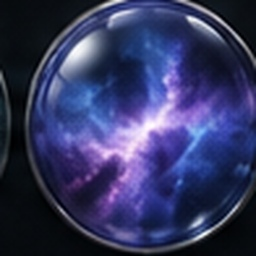
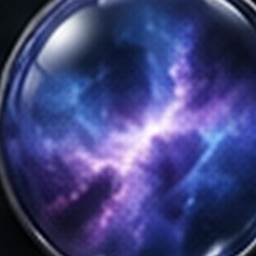
Add five living space scenes and refine wet diffusion [ui-preview] [visual-review]

diff --git a/tools/motion-preview/index.html b/tools/motion-preview/index.html
@@ -1,0 +1,33 @@
+<!doctype html>
+<html lang="fa" dir="rtl"><meta charset="utf-8"><meta name="viewport" content="width=device-width,initial-scale=1"><title>Void Chamber · Motion Lab</title>
+<style>*{box-sizing:border-box}body{margin:0;background:#080b12;color:#e0e7ef;font:15px system-ui}header{padding:22px 4%;border-bottom:1px solid #293440}h1{font-size:23px;margin:0 0 8px}p{color:#9baabd;line-height:1.9;margin:6px 0}main{max-width:1400px;margin:auto;padding:24px;display:grid;grid-template-columns:1fr 290px;gap:20px}.stage{border:1px solid #384450;border-radius:16px;overflow:hidden;background:#03050a}canvas{width:100%;display:block;aspect-ratio:1100/600}aside{grid-column:2;grid-row:1 / span 2;display:flex;flex-direction:column;gap:7px}button,.file{background:#111925;color:#c6d2df;border:1px solid #303d50;border-radius:9px;padding:11px;cursor:pointer;text-align:right;font:inherit}button.active{border-color:#d88aee;background:#30203c;color:white}small{display:block;font-size:11px;color:#97a9bd;direction:ltr;text-align:right;margin-top:3px}.controls{display:flex;align-items:center;gap:12px;flex-wrap:wrap;padding:14px}input[type=range]{width:110px;accent-color:#b2a0ff}.info{padding:16px 20px;min-height:100px}.badge{color:#85d9e0}audio{max-width:100%;width:260px;height:34px}label{font-size:13px;color:#c3ccd9}input[type=file]{display:none}@media(max-width:850px){main{display:flex;flex-direction:column;padding:10px}aside{display:grid;grid-template-columns:1fr 1fr}.controls{gap:8px}}</style>
+<header><h1>VOID CHAMBER / آزمایشگاه حرکت</h1><p>۱۰ شبیهسازی زنده برای انتخاب جهت طراحی — این صفحه پلاگین یا پیشنمایش DSP جدید نیست.</p></header>
+<main><section><div class="stage"><canvas id="view" width="1100" height="600"></canvas><div class="controls"><button id="pause">توقف حرکت</button><label>شدت <input id="strength" type="range" min="0" max="100" value="65"></label><label>سرعت <input id="speed" type="range" min="10" max="150" value="65"></label><button id="hit">ضربهٔ سیگنال</button><button id="auto">مقایسهٔ خودکار: خاموش</button></div></div><div class="info"><strong id="title"></strong><p id="description"></p><span class="badge" id="signal">سیگنال نمایشی مشترک برای مقایسهٔ هر ۱۰ حالت</span></div><div class="controls"><label class="file">انتخاب فایل صوتی خودت<input type="file" id="file" accept="audio/*"></label><audio id="audio" controls></audio><button id="demo">برگشت به سیگنال نمایشی</button></div><p>فایل صوتی فقط داخل مرورگر پردازش میشود و جایی آپلود نمیشود. در حالت فایل، حرکت از انرژی بم، میانی و زیر صدا تأثیر میگیرد. دنبالهٔ تصویری شبیهسازی شده است؛ تحلیل خروجی ریورب واقعی نیست.</p></section><aside id="choices"></aside></main>
+<script>
+const modes=[['سحابیِ تنفسکننده','Nebula Breathing','بافت داخلی با تنفس پیوسته باز و جمع میشود؛ پوسته ثابت و حرکت نرم است.'],['جوهر در بیوزنی','Zero-Gravity Ink','ابرهای جوهری با حرکت گردابی؛ بم جریانهای بزرگ و زیر جزئیات کوچک را میسازد.'],['طوفان مداری','Orbital Storm','رشتههای نور در مدارهای مایل میچرخند و با انرژی صدا شتاب میگیرند.'],['آینهٔ مایع','Liquid Mirror','موجهای بیضوی روی زمین پخش میشوند و بازتاب را به لرزش درمیآورند.'],['شفقِ محبوس','Captured Aurora','پردههای شفق مواج در کره حرکت میکنند؛ لبهها با فرکانسهای زیر روشن میشوند.'],['غبارِ خاطره','Echo Dust','ذرات نور با ورود سیگنال بیدار میشوند و ردهای کوتاهشان در دنباله محو میشود.'],['میدان گرانش','Gravity Well','گرداب نور به سوی هسته کشیده میشود؛ حلقههای انکسار با سیگنال باز میشوند.'],['گفتوگوی سه کره','Three-Body Resonance','کرههای جانبی و مرکزی با مسیرهای نور به یکدیگر پاسخ میدهند. در فایل صوتی، طرفین به کانال چپ و راست واکنش دارند.'],['شیشه و پلاسما','Glass & Plasma','رشتههای پلاسما داخل پوستهٔ ثابت جاریاند؛ لبهٔ کره با حملههای صوتی روشن میشود.'],['اتاقی که بیدار میشود','Awakening Chamber','کرهها، ستونها و بازتاب زمین با هم به انرژی صدا پاسخ میدهند؛ حرکتی محیطی و هماهنگ.']];
+const $=s=>document.getElementById(s),c=$('view'),g=c.getContext('2d'),img=new Image();img.src='scene.jpg';let mode=0,paused=false,t=0,last=0,impulse=0,tail=0,ctx,analyser,bins,source,leftAnalyser,rightAnalyser,lb,rb,objectURL,usingFile=false,automatic=false,autoTime=0;
+function select(i){mode=i;document.querySelectorAll('aside button').forEach((b,j)=>b.classList.toggle('active',i===j));$('title').textContent=`${i+1}. ${modes[i][0]}`;$('description').textContent=modes[i][2];}
+modes.forEach((m,i)=>{let b=document.createElement('button');b.innerHTML=`${i+1}. ${m[0]}<small>${m[1]}</small>`;b.onclick=()=>{select(i);autoTime=0};$('choices').append(b)});select(0);
+$('pause').onclick=()=>{paused=!paused;$('pause').textContent=paused?'ادامهٔ حرکت':'توقف حرکت'};$('hit').onclick=()=>impulse=1;$('auto').onclick=()=>{automatic=!automatic;autoTime=0;$('auto').textContent='مقایسهٔ خودکار: '+(automatic?'هر ۸ ثانیه':'خاموش')};
+function setup(){if(ctx)return;ctx=new AudioContext();source=ctx.createMediaElementSource($('audio'));analyser=ctx.createAnalyser();analyser.fftSize=1024;bins=new Uint8Array(analyser.frequencyBinCount);source.connect(analyser);analyser.connect(ctx.destination);let splitter=ctx.createChannelSplitter(2);source.connect(splitter);leftAnalyser=ctx.createAnalyser();rightAnalyser=ctx.createAnalyser();leftAnalyser.fftSize=rightAnalyser.fftSize=256;splitter.connect(leftAnalyser,0);splitter.connect(rightAnalyser,1);lb=new Uint8Array(128);rb=new Uint8Array(128)}
+$('file').onchange=async e=>{let f=e.target.files[0];if(!f)return;try{setup();await ctx.resume();$('audio').pause();if(objectURL)URL.revokeObjectURL(objectURL);objectURL=URL.createObjectURL(f);$('audio').src=objectURL;usingFile=true;await $('audio').play();$('signal').textContent='واکنش به فایل صوتی: '+f.name}catch(err){$('signal').textContent='پخش ممکن نشد؛ از کنترل پخش استفاده کن. '+err.message}};
+$('audio').onplay=()=>{if(ctx)ctx.resume()};$('demo').onclick=()=>{usingFile=false;$('audio').pause();$('signal').textContent='سیگنال نمایشی مشترک برای مقایسهٔ هر ۱۰ حالت'};
+function avg(a,start,end){let s=0;for(let i=start;i<end;i++)s+=a[i];return s/((end-start)*255)}
+function path(points,color,width=1){g.beginPath();points.forEach((p,i)=>i?g.lineTo(...p):g.moveTo(...p));g.strokeStyle=color;g.lineWidth=width;g.stroke()}
+function ellipse(x,y,rx,ry,color,w=1,rot=0){g.beginPath();g.ellipse(x,y,Math.max(.1,rx),Math.max(.1,ry),rot,0,Math.PI*2);g.strokeStyle=color;g.lineWidth=w;g.stroke()}
+function glow(x,y,r,color,a){g.save();g.globalAlpha=Math.min(1,Math.max(0,a));let q=g.createRadialGradient(x,y,0,x,y,r);q.addColorStop(0,color);q.addColorStop(1,'transparent');g.fillStyle=q;g.fillRect(x-r,y-r,r*2,r*2);g.restore()}
+function frame(ms){requestAnimationFrame(frame);let dt=Math.min((ms-last)/1000,.05);last=ms;if(paused)return;t+=dt*Number($('speed').value)/65;if(automatic){autoTime+=dt;if(autoTime>8){select((mode+1)%10);autoTime=0}}impulse*=Math.exp(-dt*4);let lo,mid,hi,L,R;if(usingFile&&analyser){analyser.getByteFrequencyData(bins);lo=avg(bins,1,10);mid=avg(bins,10,80);hi=avg(bins,80,240);leftAnalyser.getByteFrequencyData(lb);rightAnalyser.getByteFrequencyData(rb);L=avg(lb,0,90);R=avg(rb,0,90)}else{let beat=Math.pow(Math.max(0,Math.sin(t*3.2)),12);lo=.12+beat*.7;mid=.19+.19*Math.sin(t*1.1)**2;hi=.08+.35*Math.pow(Math.max(0,Math.sin(t*5.3)),8);L=.3+.25*Math.sin(t*.9);R=.3+.25*Math.cos(t*.8)}let input=Math.min(1,(lo*.5+mid*.35+hi*.15)*1.7+impulse);tail=Math.max(input,tail*Math.exp(-dt*.85));let a=Number($('strength').value)/100,e=tail*a;
+g.clearRect(0,0,1100,600);if(img.complete&&img.naturalWidth)g.drawImage(img,0,0);g.save();g.globalCompositeOperation='screen';
+if([0,1,2,5,6,8,9].includes(mode)){g.save();g.beginPath();g.arc(550,207,129,0,Math.PI*2);g.clip();if(mode===0){let s=1+.055*Math.sin(t*1.4)*( .2+e);g.globalAlpha=.3+e*.4;g.translate(550,207);g.scale(s,s);g.drawImage(img,420,77,260,260,-130,-130,260,260);g.globalAlpha=1;glow(548,220,120,'#8853d9',e*.3)}
+if(mode===1){for(let k=0;k<9;k++){let x=550+Math.sin(t*.22+k*2.4)*(55+lo*22),y=205+Math.cos(t*.3+k*1.4)*80;glow(x,y,30+22*Math.sin(t*.5+k)**2,k%2?'#9848d5':'#397696',(.18+e*.5));}for(let k=0;k<12;k++){let pts=[];for(let j=0;j<80;j++){let x=425+j*3.2;pts.push([x,205+60*Math.sin(j*.035+t*.25+k*.35)+20*Math.sin(j*.1-t*.4+k)])}path(pts,`rgba(211,118,249,${.04+e*.1})`,2)}}
+if(mode===2){for(let k=0;k<9;k++)ellipse(550,207,70+k*7,18+k*3,`rgba(${k%2?'116,217,244':'220,132,250'},${.13+e*.4})`,1.2,t*.25+k*.35);for(let k=0;k<14;k++){let q=t*(.5+lo)+k*2.4;glow(550+112*Math.cos(q),207+65*Math.sin(q),5,'#f4caff',e*.9)}}
+if(mode===5){for(let k=0;k<170;k++){let q=k*2.39996+t*(.04+(k%7)*.009),r=120*Math.sqrt((k*.618033%1));let x=550+Math.cos(q)*r,y=207+Math.sin(q)*r;let v=(.5+.5*Math.sin(t*1.4+k))*(.15+e);path([[x-Math.sin(q)*4,y+Math.cos(q)*4],[x,y]],`rgba(186,215,255,${v})`,k%4===0?2:1);if(k%9===0)glow(x,y,6,'#cd8bff',v*.6)}}
+if(mode===6){for(let k=0;k<11;k++){let pts=[];for(let j=0;j<100;j++){let r=8+j*1.22,q=k*Math.PI*2/11+j*.045+t*.3;pts.push([550+Math.cos(q)*r,207+Math.sin(q)*r*.85])}path(pts,`rgba(176,119,244,${.1+e*.3})`,1.4)}g.globalCompositeOperation='source-over';let z=g.createRadialGradient(550,207,4,550,207,34+lo*15);z.addColorStop(0,'#02030b');z.addColorStop(1,'transparent');g.fillStyle=z;g.fillRect(495,152,110,110);g.globalCompositeOperation='screen';ellipse(550,207,34+e*15,27+e*12,'#ad8bdc',1)}
+if(mode===8||mode===9){for(let k=0;k<7;k++){let pts=[];for(let j=0;j<100;j++){let x=423+j*2.57;let taper=Math.sin(j/99*Math.PI);let y=212+(k-3)*10+Math.sin(j*.047+t*.5+k*.53)*45*taper+Math.sin(j*.13-t*.8+k)*8*(.4+hi);pts.push([x,y])}path(pts,`rgba(197,109,245,${.12+e*.35})`,5);path(pts,`rgba(244,187,255,${.2+e*.6})`,.8)}glow(593,181,64,'#8b42d8',e*.35)}g.restore()}
+if(mode===4){g.save();g.beginPath();g.arc(550,207,127,0,Math.PI*2);g.clip();for(let k=0;k<40;k++){let pts=[];for(let j=0;j<80;j++){let x=428+j*3.1,y=180+Math.sin(j*.035+t*.3+k*.035)*65+(k-20)*2.4+Math.sin(j*.085-t*.6)*10*(.3+lo);pts.push([x,y])}path(pts,`rgba(${k%3?'113,221,224':'225,144,255'},${(.04+e*.14)*(1-Math.abs(k-20)/25)})`,2)}g.restore()}
+if(mode===3||mode===9){for(let k=0;k<9;k++){let phase=(t*.27+k/9)%1;ellipse(550,357,80+phase*470,5+phase*62,`rgba(172,137,224,${(1-phase)*e*.6})`,1.6)}g.save();g.beginPath();g.rect(300,375,500,195);g.clip();for(let j=0;j<30;j++){let y=380+j*5,shift=Math.sin(t*2+j*.65)*(3+lo*12);g.globalAlpha=.09+e*.18;g.drawImage(img,320,y,460,5,320+shift,y,460,5)}g.restore()}
+if(mode===7||mode===9){for(let side of [-1,1]){let x=550+side*270,y=273,power=side<0?L:R;glow(x,y,45,'#be72f2',power*a);ellipse(x,y,30,29,`rgba(185,157,255,${.1+power*a})`,1.5);for(let k=0;k<3;k++){let pts=[];for(let j=0;j<=60;j++){let u=j/60;pts.push([x+(550-x)*u,y+(250-y)*u-Math.sin(u*Math.PI)*(35+k*10)+Math.sin(u*8-t*1.5)*3])}path(pts,`rgba(162,139,241,${(.05+power*.25)*a})`,1)}let u=(t*.23+(side===1?.5:0))%1;glow(x+(550-x)*u,y-25*Math.sin(u*Math.PI),9,'#c9abff',power*a)}}
+if(mode===9){for(let x of [69,165,358,744,941,1035]){path([[x,90],[x,342]],`rgba(151,174,244,${e*.15})`,3);glow(x,343,38,'#8a6dce',e*.35)}}
+if(mode!==3)ellipse(550,207,131,125,`rgba(174,153,225,${e*(mode===8?.5:.12)})`,1.5);g.restore();g.fillStyle='#0a101bcc';g.fillRect(24,553,210,28);g.fillStyle='#b9c9dc';g.font='12px system-ui';g.fillText((usingFile?'AUDIO FILE':'DEMO SIGNAL')+'  /  '+String(mode+1).padStart(2,'0'),35,572);g.fillStyle='#bea1de';g.fillRect(155,563,input*65,3);
+}requestAnimationFrame(frame);
+</script></html>

diff --git a/Source/PluginEditor.cpp b/Source/PluginEditor.cpp
@@ -848,6 +848,11 @@ void PresetBrowser::mouseDown (const juce::MouseEvent& e)
 
 bool PresetBrowser::keyPressed (const juce::KeyPress& key)
 {
+    if (key.getTextCharacter() == 'm' || key.getTextCharacter() == 'M')
+    {
+        motionButton.onClick();
+        return true;
+    }
     if (key == juce::KeyPress::escapeKey)
     {
         setVisible (false);
@@ -1003,6 +1008,14 @@ VoidChamberReverbAudioProcessorEditor::VoidChamberReverbAudioProcessorEditor (Vo
         constrainer->setFixedAspectRatio (designW / designH);
     setSize (1536, 1024);
 
+    addAndMakeVisible (motionButton);
+    motionButton.setTooltip ("Toggle audio-reactive scene animation (M)");
+    motionButton.onClick = [this]
+    {
+        motionEnabled = ! motionEnabled;
+        motionButton.setButtonText (motionEnabled ? "MOTION ON" : "MOTION OFF");
+        repaint();
+    };
     startTimerHz (30);
 }
 
@@ -1114,6 +1127,7 @@ void VoidChamberReverbAudioProcessorEditor::paint (juce::Graphics& g)
     g.addTransform (juce::AffineTransform::scale (getWidth() / designW, getHeight() / designH));
     if (background.isValid())
         g.drawImage (background, dr (0, 0, designW, designH));
+    paintLivingScene (g);
     paintPanels (g); paintFrame (g); paintHeader (g);
 
     const char* names[] = { "SIZE", "PRE DELAY", "DAMPING", "MODULATION" };
@@ -1152,6 +1166,10 @@ void VoidChamberReverbAudioProcessorEditor::resized()
     // rather than letterboxing; paint and hit targets share this transform.
     layoutContents (static_cast<float> (area.getWidth()) / designW, 0.0f, 0.0f);
 
+    motionButton.setBounds (juce::roundToInt (1370.0f * getWidth() / designW),
+                            juce::roundToInt (77.0f * getHeight() / designH),
+                            juce::roundToInt (123.0f * getWidth() / designW),
+                            juce::roundToInt (21.0f * getHeight() / designH));
     if (browser)
         browser->setBounds (area);
 }
@@ -1207,8 +1225,16 @@ void VoidChamberReverbAudioProcessorEditor::timerCallback()
     monoButton.setToggleState   (mode >= 0.5f, juce::dontSendNotification);
 
     const int selectedSpace = juce::roundToInt (state.getRawParameterValue (VoidChamberReverbAudioProcessor::spaceTypeID)->load());
+    const float targetEnergy = juce::jlimit (0.0f, 1.0f,
+        processor.getInputLevel() * 0.3f + processor.getWetEnergy() * 3.0f);
+    motionEnergy += (targetEnergy - motionEnergy) * (targetEnergy > motionEnergy ? 0.35f : 0.045f);
+    motionTime += (0.15f + motionEnergy) / 30.0f;
     for (int i = 0; i < 5; ++i)
+    {
         orbs[i].setSelected (i == selectedSpace);
+        motionWeights[i] += ((i == selectedSpace ? 1.0f : 0.0f) - motionWeights[i]) * 0.09f;
+    }
+    repaint();
 
     diffusionCell.syncFromParameter();
     widthCell.syncFromParameter();
@@ -1223,6 +1249,11 @@ void VoidChamberReverbAudioProcessorEditor::timerCallback()
 
 bool VoidChamberReverbAudioProcessorEditor::keyPressed (const juce::KeyPress& key)
 {
+    if (key.getTextCharacter() == 'm' || key.getTextCharacter() == 'M')
+    {
+        motionButton.onClick();
+        return true;
+    }
     if (key == juce::KeyPress::escapeKey && browser != nullptr && browser->isVisible())
     {
         browser->setVisible (false);
@@ -1230,4 +1261,93 @@ bool VoidChamberReverbAudioProcessorEditor::keyPressed (const juce::KeyPress& ke
         return true;
     }
     return juce::AudioProcessorEditor::keyPressed (key);
+}
+
+// Procedural scene layers only: controls and static architecture remain intact.
+// All animation state lives on the message thread; audio publishes one atomic RMS.
+void VoidChamberReverbAudioProcessorEditor::paintLivingScene (juce::Graphics& g)
+{
+    if (! motionEnabled || motionEnergy < 0.001f) return;
+    juce::Graphics::ScopedSaveState saved (g);
+    g.reduceClipRegion (juce::Rectangle<int> (220, 165, 1090, 360));
+    const float cx = 768.0f, cy = 313.0f, radius = 130.0f;
+    const auto pinkLight = juce::Colour (0xffd795ed);
+    const auto cyanLight = juce::Colour (0xff8bd9eb);
+    auto stroke = [&] (juce::Path& path, float alpha, float width, bool cyan = false)
+    {
+        g.setColour ((cyan ? cyanLight : pinkLight).withAlpha (juce::jlimit (0.0f, 1.0f, alpha)));
+        g.strokePath (path, juce::PathStrokeType (width));
+    };
+    for (int type = 0; type < 5; ++type)
+    {
+        const float energy = motionEnergy * motionWeights[type];
+        if (energy < 0.002f) continue;
+        const float t = motionTime;
+        if (type == 0 || type == 2 || type == 4)
+        {
+            juce::Graphics::ScopedSaveState inside (g);
+            juce::Path clip; clip.addEllipse (cx-radius, cy-radius, radius*2, radius*2);
+            g.reduceClipRegion (clip);
+            const int strands = type == 4 ? 28 : (type == 0 ? 9 : 7);
+            for (int k = 0; k < strands; ++k)
+            {
+                juce::Path p;
+                for (int j = 0; j < 85; ++j)
+                {
+                    const float u = j / 84.0f;
+                    float x, y;
+                    if (type == 0)
+                    {
+                        const float r = 14.0f + u * 119.0f;
+                        const float q = k * 0.698132f + u*4.5f - t*0.5f;
+                        x = cx + std::cos(q)*r; y = cy + std::sin(q)*r*0.85f;
+                    }
+                    else
+                    {
+                        x = cx-radius + u*radius*2;
+                        y = cy + std::sin(u*5.0f+t*0.6f+k*0.17f)*48.0f
+                            + (k-(strands-1)*0.5f)*(type == 4 ? 2.7f : 10.0f)
+                            + std::sin(u*13.0f-t+k)*8.0f;
+                    }
+                    if (j == 0) p.startNewSubPath(x,y); else p.lineTo(x,y);
+                }
+                stroke(p,energy*(type==4 ? 0.13f : 0.27f),type==4 ? 2.0f : 1.2f,type==4 && k%3!=0);
+            }
+            if (type == 0)
+            {
+                g.setGradientFill (juce::ColourGradient (juce::Colour(0xff02040b).withAlpha(energy*.7f),cx,cy,
+                    juce::Colours::transparentBlack,cx+38,cy,false));
+                g.fillEllipse(cx-38,cy-38,76,76);
+            }
+        }
+        if (type == 1 || type == 3)
+        {
+            for (int k=0;k<7;++k)
+            {
+                const float phase = std::fmod(t*.2f+k/7.0f,1.0f);
+                const float rx = 80+phase*450, ry=4+phase*37;
+                juce::Path ring; ring.addEllipse(cx-rx,465-ry,rx*2,ry*2);
+                stroke(ring,energy*(1-phase)*.28f,1.1f,k%2==0);
+            }
+        }
+        if (type == 1)
+        {
+            for (float x : { 275.0f, 380.0f, 575.0f, 963.0f, 1169.0f, 1260.0f })
+            {
+                juce::Path edge; edge.startNewSubPath(x,220); edge.lineTo(x,451);
+                stroke(edge,energy*.12f,1.4f,true);
+            }
+            for (float x : { 496.0f, 1040.0f })
+            {
+                g.setGradientFill(juce::ColourGradient(pinkLight.withAlpha(energy*.22f),x,380,
+                    juce::Colours::transparentBlack,x+42,380,true));
+                g.fillEllipse(x-42,338,84,84);
+            }
+        }
+        if (type == 2)
+        {
+            g.setColour(pinkLight.withAlpha(energy*.35f));
+            g.drawEllipse(cx-radius,cy-radius,radius*2,radius*2,1.2f);
+        }
+    }
 }

diff --git a/Source/ReverbDSP.cpp b/Source/ReverbDSP.cpp
@@ -189,6 +189,15 @@ void ReverbDSP::prepare (double newSampleRate)
         lfoPhase[i]   = static_cast<float> (i) * 1.7f + 0.4f;
     }
 
+    for (int i = 0; i < 3; ++i)
+    {
+        outputDiffL[i].prepare (24.0f, sampleRate);
+        outputDiffR[i].prepare (24.0f, sampleRate);
+        outputDiffL[i].setDelayMs (5.3f + i * 6.71f, sampleRate);
+        outputDiffR[i].setDelayMs (6.7f + i * 7.13f, sampleRate);
+    }
+    inputHPLeft.setHighpass (65.0f, sampleRate);
+    inputHPRight.setHighpass (65.0f, sampleRate);
     preDelaySamples.reset (sampleRate, 0.005);
     mixS.reset (sampleRate, 0.010);
     widthS.reset (sampleRate, 0.010);
@@ -222,6 +231,11 @@ void ReverbDSP::reset()
     for (auto& line : lines) line.reset();
     for (auto& lp : dampingLP) lp.reset();
     for (auto& hp : subsonicHP) hp.reset();
+    for (auto& ap : outputDiffL) ap.reset();
+    for (auto& ap : outputDiffR) ap.reset();
+    earlyLPLeft.reset(); earlyLPRight.reset();
+    inputHPLeft.reset(); inputHPRight.reset();
+    wetEnergy.store (0.0f, std::memory_order_relaxed);
     airShelfL.reset();
     airShelfR.reset();
 }
@@ -261,6 +275,8 @@ void ReverbDSP::configureSpace()
     }
     for (auto& n : subsonicHP)
         n.setHighpass (profiles[spaceType].hpHz, sampleRate);
+    earlyLPLeft.setLowpass (profiles[spaceType].erCutoffHz, sampleRate);
+    earlyLPRight.setLowpass (profiles[spaceType].erCutoffHz, sampleRate);
     updateLineFeedback();
 }
 
@@ -367,6 +383,7 @@ void ReverbDSP::process (juce::AudioBuffer<float>& buffer)
         return;
 
     const auto profile = profiles[spaceType];
+    double wetSquares = 0.0;
 
     // Early-reflection tap positions depend only on size; compute once per block.
     float erTapSamples[numERTaps];
@@ -398,8 +415,8 @@ void ReverbDSP::process (juce::AudioBuffer<float>& buffer)
 
         // ---- Pre-delay (stereo; mono mode feeds the average to both sides) -----
         const float monoSum = 0.5f * (inL + inR);
-        preDelayL.write (monoMode ? monoSum : inL);
-        preDelayR.write (monoMode ? monoSum : inR);
+        preDelayL.write (inputHPLeft.processHighpass (monoMode ? monoSum : inL));
+        preDelayR.write (inputHPRight.processHighpass (monoMode ? monoSum : inR));
         const float pd     = preDelaySamples.getNextValue();
         const float delayL = preDelayL.readInterpolated (pd);
         const float delayR = preDelayR.readInterpolated (pd);
@@ -426,11 +443,11 @@ void ReverbDSP::process (juce::AudioBuffer<float>& buffer)
             else              { erRight += erDelayR.readInterpolated (tapSamples) * g; }
         }
         const float erLp = profile.erGain;
-        er      *= erLp;
-        erRight *= erLp;
+        er = earlyLPLeft.processLowpass (er) * erLp;
+        erRight = earlyLPRight.processLowpass (erRight) * erLp;
 
         // ---- FDN core ------------------------------------------------------------
-        const float modDepth = profile.modDepth * (0.35f + 1.65f * modulationS.getNextValue());
+        const float modDepth = profile.modDepth * static_cast<float> (sampleRate / 44100.0) * (0.20f + 1.30f * modulationS.getNextValue());
         const float modRate  = profile.modRate;
         const float timeStep = 1.0f / static_cast<float> (sampleRate);
         float lineOut[numLines];
@@ -477,6 +494,14 @@ void ReverbDSP::process (juce::AudioBuffer<float>& buffer)
         float wetL = (lineOut[0] + lineOut[2] + lineOut[4] + lineOut[6]) * 0.5f + er * 0.9f;
         float wetR = (lineOut[1] + lineOut[3] + lineOut[5] + lineOut[7]) * 0.5f + erRight * 0.9f;
 
+        // Lossless allpass output diffusion raises echo density without
+        // extending the feedback loop or adding regenerative resonances.
+        for (int stage = 0; stage < 3; ++stage)
+        {
+            wetL = outputDiffL[stage].process (wetL, spaceType == 2 ? 0.62f : 0.48f);
+            wetR = outputDiffR[stage].process (wetR, spaceType == 2 ? 0.62f : 0.48f);
+        }
+
         // Mono mode: identical output in both channels.
         if (monoMode)
         {
@@ -501,6 +526,8 @@ void ReverbDSP::process (juce::AudioBuffer<float>& buffer)
             wetR = mid - side;
         }
 
+        wetSquares += 0.5 * (wetL * wetL + wetR * wetR);
+
         // Equal-power dry/wet (with exact endpoint snaps)
         const float m   = mixS.getNextValue();
         float dryG, wetG;
@@ -512,4 +539,5 @@ void ReverbDSP::process (juce::AudioBuffer<float>& buffer)
         if (stereo)
             audio[1][i] = inR * dryG + wetR * wetG;
     }
+    wetEnergy.store (static_cast<float> (std::sqrt (wetSquares / numSamples)), std::memory_order_relaxed);
 }

diff --git a/Tests/ReverbDSPTests.cpp b/Tests/ReverbDSPTests.cpp
@@ -242,6 +242,26 @@ int main()
             }
     }
 
+    // Wet telemetry must remain active with Mix=0 and reset deterministically.
+    for (double rate : { 44100.0, 48000.0, 96000.0 })
+    {
+        ReverbDSP dsp; dsp.prepare (rate); dsp.setMix (0.0f);
+        juce::AudioBuffer<float> audio (2, 256);
+        bool observedWet = false;
+        for (int block = 0; block < 100; ++block)
+        {
+            for (int ch = 0; ch < 2; ++ch)
+                for (int n = 0; n < 256; ++n)
+                    audio.setSample (ch,n,0.1f * std::sin (float ((block*256+n)*900.0/rate)));
+            dsp.process (audio);
+            const float energy = dsp.getWetEnergy();
+            if (! std::isfinite (energy) || energy > 4.0f) return 1;
+            observedWet = observedWet || energy > 0.0001f;
+        }
+        if (! observedWet) return 1;
+        dsp.reset(); if (dsp.getWetEnergy() != 0.0f) return 1;
+    }
+
     // 5) Zero-sized processing must not crash
     {
         ReverbDSP reverb;

diff --git a/Source/ReverbDSP.h b/Source/ReverbDSP.h
@@ -3,6 +3,7 @@
 #include <juce_audio_basics/juce_audio_basics.h>
 #include <array>
 #include <cmath>
+#include <atomic>
 
 //==============================================================================
 // Void Chamber Reverb DSP core — written from scratch for this plugin.
@@ -102,6 +103,8 @@ public:
 
     void process (juce::AudioBuffer<float>& buffer);
 
+    float getWetEnergy() const noexcept { return wetEnergy.load (std::memory_order_relaxed); }
+
     // Estimated modal density is useful for tests only.
     static float referenceLineMs (int index) noexcept;
 
@@ -142,6 +145,9 @@ private:
     std::array<float, numLines> lfoRateMul {};
 
     HighShelf airShelfL, airShelfR;
+    std::array<FeedbackAllpass, 3> outputDiffL, outputDiffR;
+    SVF earlyLPLeft, earlyLPRight, inputHPLeft, inputHPRight;
+    std::atomic<float> wetEnergy { 0.0f };
 
     // Parameters (raw values, applied at block rate through smoothers)
     juce::SmoothedValue<float> mixS        { 0.5f };

diff --git a/tools/prepare-smoked-glass.py b/tools/prepare-smoked-glass.py
@@ -20,4 +20,7 @@ canvas.save('Assets/void-background.jpg',quality=96)
 concept=Image.open('docs/design/composition-b-smoked-glass.png').convert('RGB')
 boxes=[(42,793,140,891),(144,793,242,891),(242,793,340,891),(340,793,438,891),(438,793,536,891)]
 for name,box in zip(['void','hall','plate','cavern','ambient'],boxes):
- concept.crop(box).resize((256,256),Image.Resampling.LANCZOS).save('Assets/space-'+name+'.jpg',quality=96)
+ art=concept.crop(box).resize((256,256),Image.Resampling.LANCZOS)
+ if name in ('cavern','ambient'):
+  art=art.crop((30,24,231,225)).resize((256,256),Image.Resampling.LANCZOS)
+ art.save('Assets/space-'+name+'.jpg',quality=96)

diff --git a/Source/PluginProcessor.h b/Source/PluginProcessor.h
@@ -51,6 +51,8 @@ public:
     float getInputLevel() const noexcept { return inputLevel.load(std::memory_order_relaxed); }
     float getOutputLevel() const noexcept { return outputLevel.load(std::memory_order_relaxed); }
 
+    float getWetEnergy() const noexcept { return reverb.getWetEnergy(); }
+
     // --- Factory presets ---------------------------------------------------------
     // 50 presets in 5 categories x 10, ordered the same as the space-type orbs:
     // Void (0-9), Hall (10-19), Plate (20-29), Cavern (30-39), Ambient (40-49).

diff --git a/Source/PluginEditor.h b/Source/PluginEditor.h
@@ -209,6 +209,11 @@ private:
 
     // Assets
     juce::Image background;
+    void paintLivingScene (juce::Graphics&);
+    float motionTime = 0.0f, motionEnergy = 0.0f;
+    std::array<float, 5> motionWeights {{ 1, 0, 0, 0, 0 }};
+    bool motionEnabled = true;
+    juce::TextButton motionButton { "MOTION ON" };
     juce::Image orbImages[5];
 
     // Look & feel instances (shared per accent)

diff --git a/tools/motion-preview/README.md b/tools/motion-preview/README.md
@@ -1,0 +1,11 @@
+# Motion Lab
+
+Run from the repository root:
+
+```sh
+python3 -m http.server 8081 --bind 0.0.0.0 --directory tools/motion-preview
+```
+
+Ten distinct Canvas animation studies over the approved static scene. Demo signal is silent and deterministic; upload a local audio file for Web Audio frequency-band response. Uploaded audio stays in the browser. Audio-output reverb energy is not available here: the visual tail is simulated. No plugin DSP or editor code is modified by this lab.
+
+Select each numbered mode, trigger a transient, tune intensity/speed, pause, or enable eight-second automatic comparison. Final JUCE rendering performance and exact appearance require separate implementation and verification after selection.
